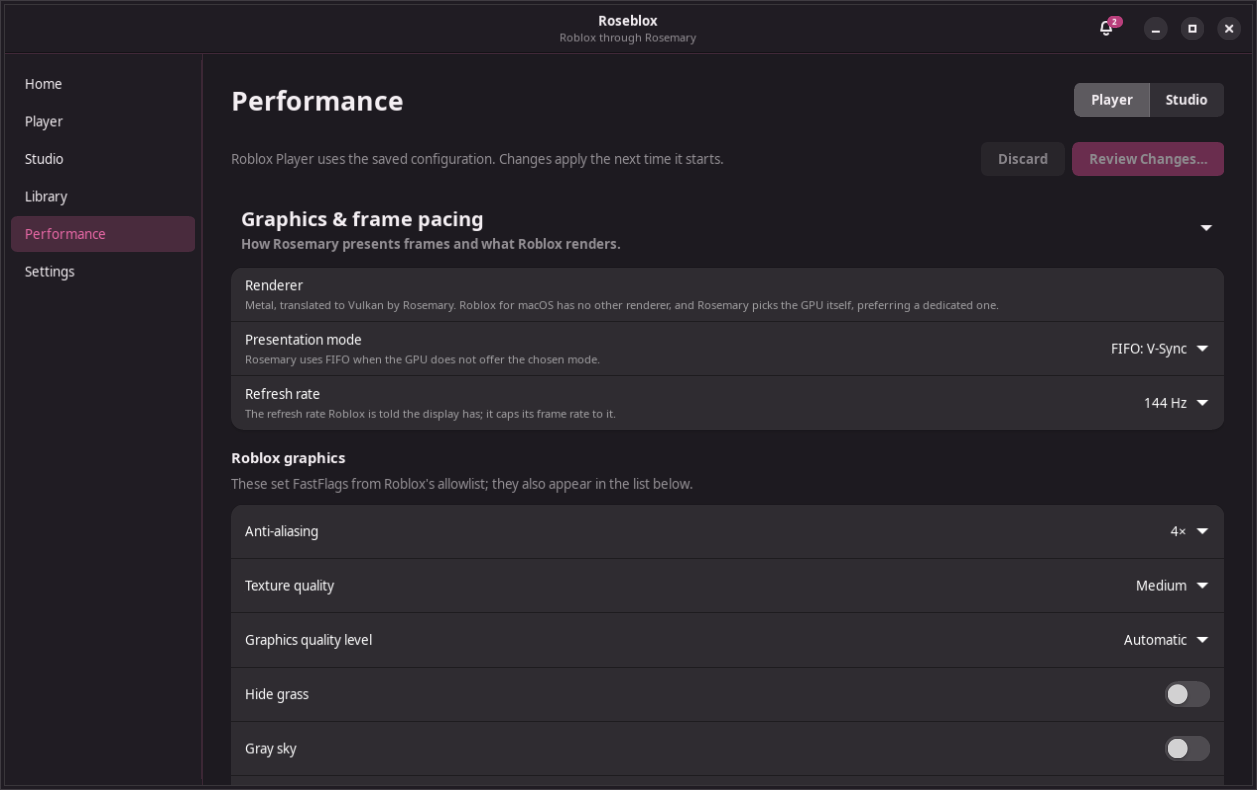
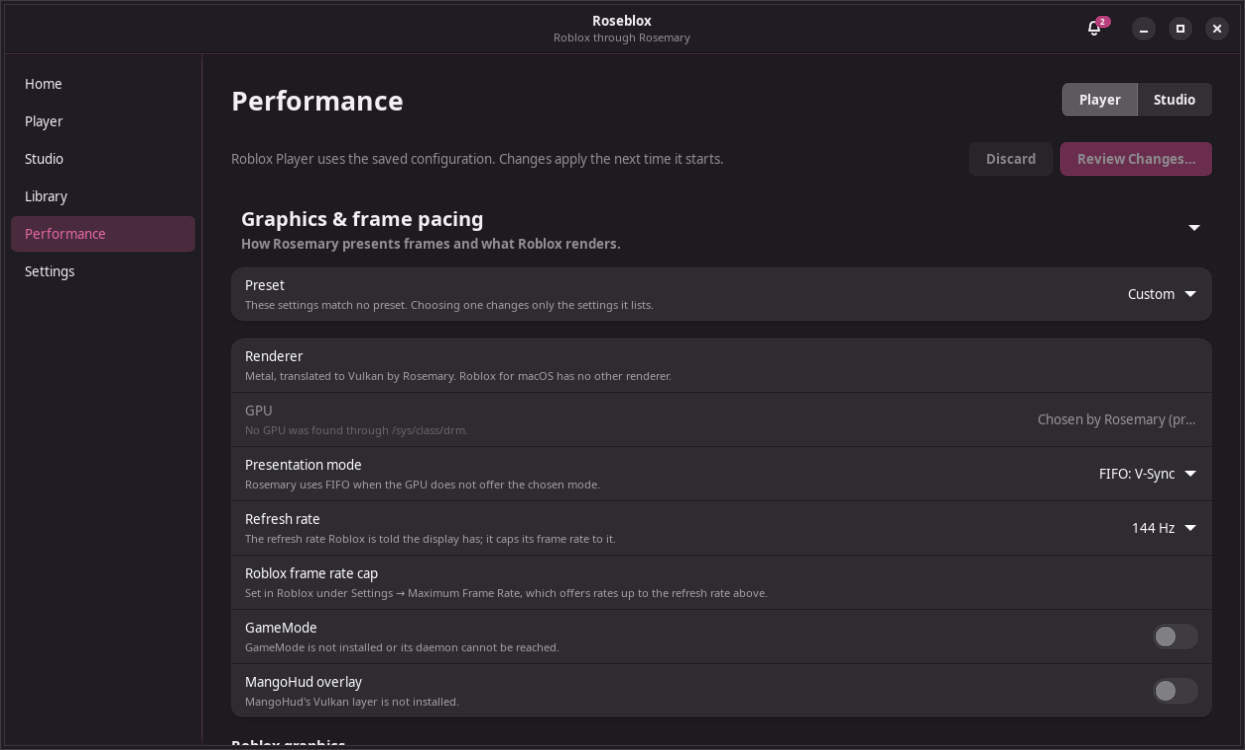
Document the Performance page and shorten the keyboard choices
The Command key and Titlebar choices were cut off; their labels are short now
and the selected choice is explained in the row's subtitle. The install guide
describes every Performance section, with troubleshooting for FastFlags,
GameMode, MangoHud and restoring backups; screenshots are updated.

diff --git a/src/roseblox/pages/performance_page.py b/src/roseblox/pages/performance_page.py
@@ -84,16 +84,26 @@ PRESET_CHOICES = (*((candidate.id, candidate.title) for candidate in PRESETS), (
 GRAY_SKY_FLAG = "FFlagDebugSkyGray"
 DPI_FLAG = "DFFlagDisableDPIScale"
 COMMAND_KEY_CHOICES = (
-    (None, "Rosemary default: Super acts as Command"),
-    ("ctrl", "Ctrl acts as Command, and Super as Ctrl"),
-    ("super+ctrl:edit", "Ctrl also works for copy, paste, cut, undo, redo and select all"),
-    ("alt", "Alt acts as Command, and Super as Option"),
+    (None, "Super (default)"),
+    ("super+ctrl:edit", "Super, and Ctrl for editing"),
+    ("ctrl", "Ctrl"),
+    ("alt", "Alt"),
 )
+COMMAND_KEY_DESCRIPTIONS = {
+    None: "Super acts as the Mac Command key.",
+    "super+ctrl:edit": "Super acts as Command, and Ctrl also works for copy, paste, cut, undo, redo and select all.",
+    "ctrl": "Ctrl acts as Command, and Super as Ctrl.",
+    "alt": "Alt acts as Command, and Super as Option.",
+}
 DECORATION_CHOICES = (
-    (None, "Rosemary default: Mac-style titlebar with menus"),
-    ("client", "Mac-style titlebar with menus"),
-    ("server", "Your desktop's titlebar, menus in a row below it"),
+    (None, "Mac-style (default)"),
+    ("server", "Desktop"),
 )
+DECORATION_DESCRIPTIONS = {
+    None: "Rosemary draws a Mac-style titlebar with the app's menus in it.",
+    "client": "Rosemary draws a Mac-style titlebar with the app's menus in it.",
+    "server": "Your desktop draws the titlebar; the app's menus are in a row below it.",
+}
 BACKUPS_SHOWN = 10
 
 
@@ -422,9 +432,6 @@ class PerformancePage(Gtk.Box):
         )
         group = Adw.PreferencesGroup.new()
         self.command_key_row = self._choice_row("Command key", COMMAND_KEY_CHOICES, self._command_key_changed)
-        self.command_key_row.set_subtitle(
-            "Mac shortcuts use Command. Desktops that keep Super's shortcuts for themselves can make Ctrl work instead."
-        )
         group.add(self.command_key_row)
         self.decorations_row = self._choice_row("Titlebar", DECORATION_CHOICES, self._decorations_changed)
         group.add(self.decorations_row)
@@ -576,7 +583,9 @@ class PerformancePage(Gtk.Box):
             self.refresh_row.set_selected(self._refresh_values.index(config.refresh_rate))
             self._show_gpu(config)
             self._select(self.command_key_row, COMMAND_KEY_CHOICES, config.command_key, describe=False)
+            self.command_key_row.set_subtitle(COMMAND_KEY_DESCRIPTIONS[config.command_key])
             self._select(self.decorations_row, DECORATION_CHOICES, config.decorations, describe=False)
+            self.decorations_row.set_subtitle(DECORATION_DESCRIPTIONS[config.decorations])
             self._show_framerate_cap()
             self.gamemode_row.switch.set_active(config.gamemode)
             self.gamemode_row.switch.set_sensitive(self.gamemode_available or config.gamemode)

diff --git a/tests/test_performance_page.py b/tests/test_performance_page.py
@@ -207,10 +207,12 @@ class PerformancePageTests(unittest.TestCase):
 
     def test_keyboard_and_titlebar_choices_edit_the_draft(self):
         page = self._page()
-        page.command_key_row.set_selected(2)
-        page.decorations_row.set_selected(2)
+        page.command_key_row.set_selected(1)
+        page.decorations_row.set_selected(1)
         self.assertEqual("super+ctrl:edit", page.draft.command_key)
         self.assertEqual("server", page.draft.decorations)
+        self.assertIn("Ctrl also works for copy", page.command_key_row.get_subtitle())
+        self.assertIn("Your desktop draws", page.decorations_row.get_subtitle())
         self.assertIn("ROSEMARY_COMMAND_KEY=super+ctrl:edit", page.environment_preview.get_text())
         page._discard_clicked(None)
         self.assertEqual(0, page.command_key_row.get_selected())

diff --git a/docs/INSTALL.md b/docs/INSTALL.md
@@ -103,6 +103,34 @@ Click the bell at the top right. The badge counts the items in the center:
 
 ![Download with speed and time left](screenshots/13-download-speed.png)
 
+## Performance
+
+![Performance](screenshots/14-performance.png)
+
+The **Performance** page holds launch settings for **Player** and **Studio** separately; pick one with the buttons at the top. Changes are only a draft until you click **Review Changes…**, which lists every change and saves it when you click **Apply**. **Discard** throws the draft away. The settings apply the next time that app starts, and nothing is set for your whole desktop.
+
+- **Graphics & frame pacing**
+  - **Preset**: **Balanced** (Rosemary's defaults), **Performance** (no anti-aliasing, low textures, no grass, and GameMode when it is installed), or **Visual Quality** (V-Sync, 4× anti-aliasing, high textures, and the highest graphics level). A preset changes only those settings; anything else you set stays. When you change one of them by hand, the preset shows **Custom**.
+  - **GPU**: which graphics card Rosemary renders with, on computers with more than one.
+  - **Presentation mode**: **Mailbox** (Rosemary's default: low latency, no tearing), **FIFO** (V-Sync), **FIFO relaxed** (V-Sync that may tear when a frame is late), or **Immediate** (lowest latency, may tear).
+  - **Refresh rate**: the display refresh rate Roblox is told about. Roblox builds its in-game **Maximum Frame Rate** menu from this value, so choose your monitor's rate to get matching choices there. **Roblox frame rate cap** shows what that menu is set to.
+  - **GameMode**: asks Feral GameMode (`gamemoded`) to optimize the system while the app runs. Install it with `sudo pacman -S gamemode`. If GameMode cannot start, the app still opens and the notification center says why.
+  - **MangoHud overlay**: shows MangoHud's FPS and frame time overlay. Rosemary translates Metal to Vulkan, so MangoHud's Vulkan layer works. Install it with `sudo pacman -S mangohud`; the switch is greyed out until it is installed. Configure the overlay in `~/.config/MangoHud/MangoHud.conf`.
+  - **Roblox graphics**: anti-aliasing, texture quality, graphics quality level, hide grass, gray sky, and disable DPI scaling. These are FastFlags from Roblox's allowlist, so they also work in Player.
+- **FastFlags**: the flags written to the app's `ClientAppSettings.json` when it starts. The Player uses only flags in Roblox's own allowlist, which Roseblox downloads and marks; other flags are kept but have no effect there. Studio uses every flag. **Import…** and **Export…** read and write a JSON file, and **Use Flags from Installation** copies the flags already in the installed app. Roseblox never adds flags you did not choose, and backs up a `ClientAppSettings.json` it did not write before replacing it.
+- **Keyboard & window**
+  - **Command key**: which key acts as the Mac Command key. **Super, and Ctrl for editing** keeps Super as Command and also lets Ctrl+A, Ctrl+C, Ctrl+V, Ctrl+X, Ctrl+Y and Ctrl+Z work, which is handy in Studio. **Ctrl** and **Alt** make that key the Command key instead.
+  - **Titlebar**: Rosemary's Mac-style titlebar, or your desktop's titlebar with the menus in a row below it.
+- **Environment** (closed by default): extra variables for Rosemary, and variables for Roblox itself. Variables that look like passwords, tokens or cookies are refused, and so are library injection variables (`LD_PRELOAD`, `DYLD_*` and similar). Settings that have their own control, such as the presentation mode, must be changed there.
+- **Launch arguments** (closed by default): extra arguments for Roblox, passed after the link Roseblox opens and never through a shell. Login ticket and authentication arguments are refused. The preview shows the whole command.
+- **Backups** (closed by default): every change you apply first saves the previous settings of both apps. **Restore…** brings one back, and **Reset to Defaults…** clears the settings of the selected app. The 30 newest backups are kept in `~/.config/roseblox/backups/`.
+- **Caches** (closed by default): Rosemary's Metal shader cache and Roblox's caches, with their sizes. **Move to Trash…** moves one to your desktop's trash, so you can still get it back. Roblox and Rosemary rebuild them by themselves, so the first start afterwards can be slower. Your Roblox login and settings are never touched.
+- **Diagnostics** (closed by default): Rosemary's version, your GPUs and Vulkan drivers, whether GameMode and MangoHud are installed, and other details for bug reports. **Copy Report** copies them as text.
+
+The settings are saved in `~/.config/roseblox/launch-config.json`.
+
+![Every Performance section open](screenshots/15-performance-all-sections.png)
+
 ## Update
 
 ### Roseblox
@@ -187,4 +215,8 @@ To update after a new release, run `git pull` in `~/RoseBlox`, then `makepkg -si
 | ZIP import fails with "bsdtar" | `sudo pacman -S --needed libarchive` |
 | Roblox closed or failed and you want its output | Rosemary's output is in `~/.local/state/roseblox/logs/player.log` or `studio.log`; the previous run is in `player.log.1` or `studio.log.1`. |
 | No update notifications | Check that **Settings → Updates** says "On". If it says the login entry is missing, turn the switch off and on again. Make sure notifications for "Roseblox" are allowed in your desktop's notification settings, then click **Check Now**. You are only notified for apps you have installed, and not for a version you skipped. |
+| A FastFlag has no effect in Player | The Player uses only flags in Roblox's allowlist. Flags outside it have a warning under **Performance → FastFlags** ("Roblox Player ignores this flag"), and work only in Studio. |
+| Roblox stopped starting after you changed Performance settings | Open **Performance → Backups** and **Restore…** the backup from before the change, or click **Reset to Defaults…**. |
+| "GameMode was not started" | Install GameMode (`sudo pacman -S gamemode`) and log out and back in. The app still runs, only without GameMode. |
+| The MangoHud overlay does not appear | Check that **Performance → Diagnostics** says the MangoHud layer is installed, and that the overlay is not hidden in `~/.config/MangoHud/MangoHud.conf` (MangoHud's toggle key is Right Shift + F12). |
 | Clicking **Update** in a notification does nothing | See `~/.local/state/roseblox/logs/roseblox.log` for the window it opened. |

diff --git a/README.md b/README.md
@@ -58,6 +58,8 @@ The setup choices are stored at `$XDG_CONFIG_HOME/roseblox/setup.json`. URL regi
 
 **Ctrl + left-click compatibility** (Settings → Rosemary, on by default) passes `ROSEMARY_PLAIN_CTRL_CLICK=1` to Player and Studio launches, so supported Rosemary builds deliver Ctrl + left-click as a normal left-click. Turn it off to keep Rosemary's default behavior. The switch is greyed out when the selected Rosemary executable does not contain the supported option marker; such builds always keep their default behavior. Roseblox does not alter global keyboard or desktop settings.
 
+The **Performance** page keeps separate launch settings for Player and Studio, saved in `$XDG_CONFIG_HOME/roseblox/launch-config.json`: presets, GPU choice, Rosemary's presentation mode and refresh rate, Feral GameMode, the MangoHud overlay, allowlisted Roblox graphics flags, a FastFlag editor that checks Player flags against Roblox's published allowlist, the Command key and titlebar, environment variables for Rosemary and for Roblox, and extra launch arguments. Every change is listed for review before it is saved, and the previous settings are kept as a backup that can be restored. FastFlags are written to the bundle's `Contents/MacOS/ClientSettings/ClientAppSettings.json` at launch; a file Roseblox did not write is backed up first. The page also lists Roblox and Rosemary caches, which it moves to the trash, and a diagnostics report. Credential-like variables, library injection variables and login arguments are refused, and nothing is set for the whole desktop. See [Performance in the install guide](docs/INSTALL.md#performance).
+
 Player and Studio pages can register existing `RobloxPlayer.app` and `RobloxStudio.app` bundles, launch them through Rosemary, check the current Roblox versions, and download and install versioned archives. The Library page can import existing application bundles or ZIP archives, list managed and external registrations, and remove registrations. Managed bundles can be deleted only after explicit confirmation; external bundles are never deleted by Roseblox. Completed downloads remain in the managed archives directory after installation.
 
 The Home page provides Player and Studio launch cards. On startup, each card selects its preferred installation when that bundle is available. Choose **Set as preferred** on a Player or Studio installation row to save that application's default. You can still select another installation temporarily on Home; that selection does not change the saved preference. Preferences are stored separately at `$XDG_CONFIG_HOME/roseblox/preferences.json` (normally `~/.config/roseblox/preferences.json`). If a preferred installation is removed or its bundle is invalid, Home uses the first valid installation without silently changing the saved choice. If no valid installation exists, Home shows setup guidance. Its dark pink/purple background is a local decorative placeholder at `src/roseblox/resources/home-artwork-placeholder.svg`; replace that asset to update the artwork. Cards remain readable against the CSS fallback when the artwork is unavailable.

diff --git a/AGENTS.md b/AGENTS.md
@@ -8,4 +8,6 @@
 - Rosemary must keep running when Roseblox exits: launch it in its own session with output to a log file, never through pipes Roseblox reads.
 - The update checker (`roseblox --update-service`) runs for the whole desktop session; keep it free of GTK imports.
 - Colors come from `roseblox/theme.py`, which prepends `@define-color` (and, on libadwaita 1.6+, CSS variable) definitions to `resources/style.css`. Use the `@rb_*` and libadwaita named colors in the stylesheet instead of hard-coded colors, so every Appearance choice keeps working.
+- Performance settings (`backend/launch_config.py`) must stay safe: refuse credential-like and library injection variables and login arguments, never add FastFlags the user did not choose, keep networking, physics and security flags out of presets, and write files atomically with a backup of the previous state. Guest arguments always follow `--`, because Rosemary parses its own options anywhere after the bundle path.
+- Only state facts in Diagnostics and the Performance page that Roseblox read or verified; do not estimate metrics.
 - Use icon names that current Adwaita still ships (for example `object-select-symbolic`, not `emblem-ok-symbolic`).
